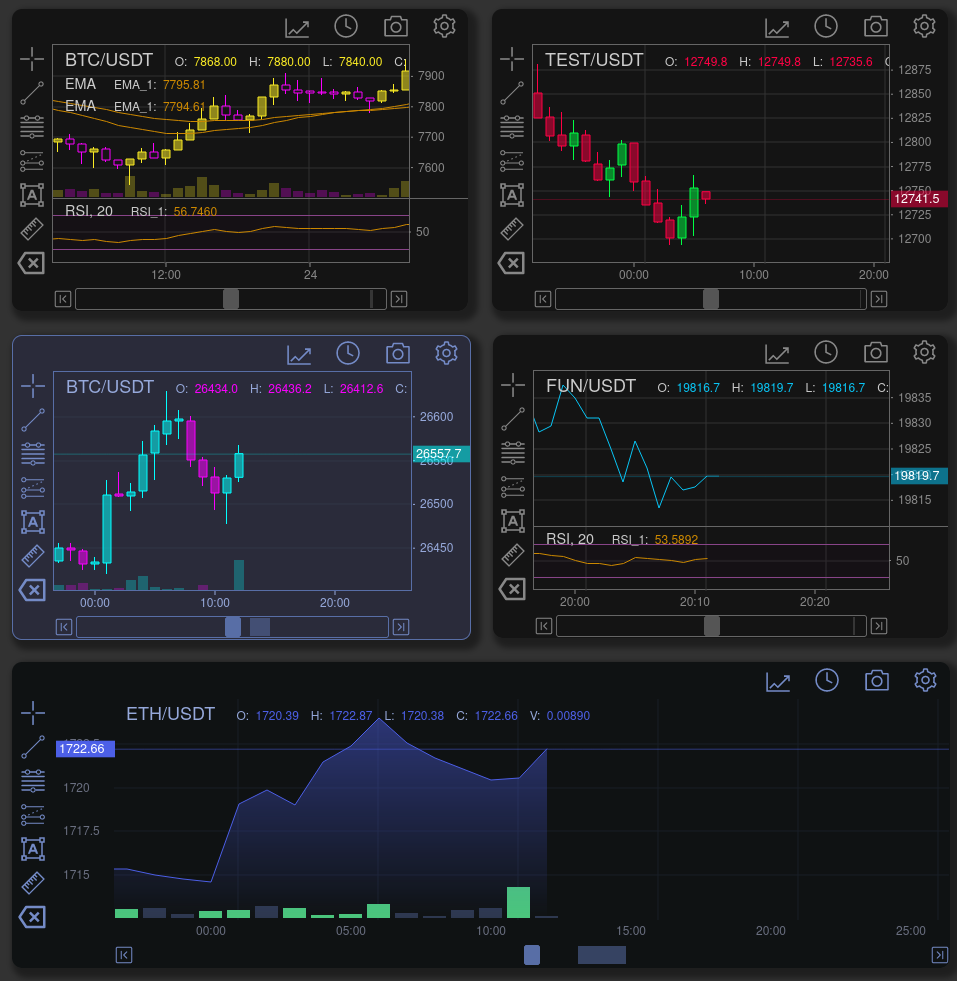
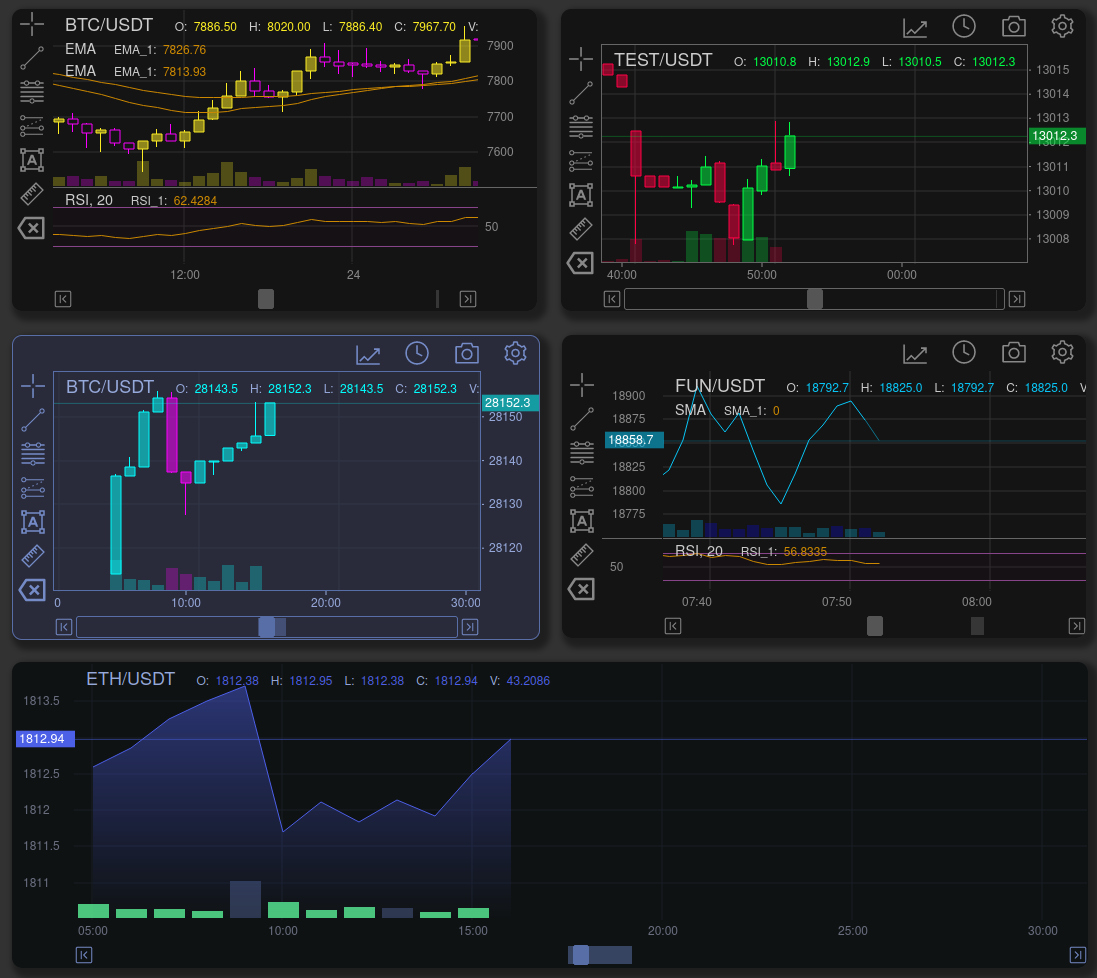
Utils Bar - enable / disable

diff --git a/demo/index.js b/demo/index.js
@@ -78,10 +78,11 @@ let streamInit = false
 const config1 = {
   id: "TradeX_test",
   title: "BTC/USDT",
+  symbol: "btcusdt",
   // width: 1000,
   // height: 800,
-  utils: {none: true},
-  tools: {none: true},
+  utils: {},
+  tools: {},
   timeFrame: "1m",
   rangeStartTS: rangeStartTS,
   rangeLimit: 30,
@@ -98,14 +99,26 @@ const config1 = {
       UpColour: "#FAEB2444",
       DnColour: "#F900FE44",
     },
+    xAxis: {
+      tickMarker: false,
+    },
+    yAxis: {
+      tickMarker: false,
+    },
     chart: {
       Background: "#141414",
-      BorderColour: "#666",
+      BorderColour: "#141414",
       GridColour: "#303030",
       TextColour: "#c0c0c0"
     },
     onChart: {
 
+    },
+    tools: {
+      location: "left"
+    },
+    utils: {
+      location: false
     },
   },
   isCrypto: true,
@@ -121,10 +134,11 @@ const config1 = {
 const config2 = {
   id: "TradeX_test",
   title: "TEST/USDT",
+  symbol: "testusdt",
   // width: 1000,
   // height: 800,
-  utils: {none: true},
-  tools: {none: true},
+  utils: {},
+  tools: {},
   timeFrame: "1m",
   rangeStartTS: state2.ohlcv.slice(-15)[0][0], // rangeStartTS,
   rangeLimit: 30,
@@ -164,10 +178,11 @@ const config2 = {
 const config3 = {
   id: "TradeX_Blue",
   title: "BTC/USDT",
+  symbol: "btcusdt",
   // width: 1000,
   // height: 800,
-  utils: {none: true},
-  tools: {none: true},
+  utils: {},
+  tools: {},
   timeFrame: "1m",
   rangeStartTS: rangeStartTS,
   rangeLimit: 30,
@@ -239,15 +254,19 @@ const config3 = {
   errors: true,
   stream: streamVal,
   maxCandleUpdate: 250,
-  talib: talib
+  talib: talib,
+  state: {
+
+  }
 }
 const config4 = {
   id: "TradeX_test",
   title: "FUN/USDT",
+  symbol: "funusdt",
   // width: 1000,
   // height: 800,
-  utils: {none: true},
-  tools: {none: true},
+  utils: {},
+  tools: {},
   timeFrame: "1s",
   rangeStartTS: state4.ohlcv.slice(-1)[0][0] - (15000),
   rangeLimit: 30,
@@ -266,9 +285,16 @@ const config4 = {
       UpColour: "#08C5F544",
       DnColour: "#0805F544",
     },
+    xAxis: {
+      tickMarker: false,
+    },
+    yAxis: {
+      tickMarker: false,
+      location:"left"
+    },
     chart: {
       Background: "#141414",
-      BorderColour: "#666",
+      BorderColour: "#141414",
       GridColour: "#333",
       TextColour: "#ccc"
     },
@@ -289,10 +315,11 @@ const config4 = {
 const config5 = {
   id: "Midnight",
   title: "ETH/USDT",
+  symbol: "ethusdt",
   // width: 1000,
   // height: 800,
-  utils: {none: true},
-  tools: {none: true},
+  utils: {},
+  tools: {},
   timeFrame: "1m",
   rangeStartTS: rangeStartTS,
   rangeLimit: 30,
@@ -361,6 +388,12 @@ const config5 = {
     icon: {
       colour: "#748bc7",
       hover: "#96a9db"
+    },
+    tools: {
+      location: false
+    },
+    utils: {
+      location: false
     }
   },
   isCrypto: true,

diff --git a/demo/tradex-chart.es.js b/demo/tradex-chart.es.js
@@ -4907,6 +4907,7 @@ class tradeXChart extends element {
   #oHeight
   #widthCache
   #heightCache
+  #theme
   constructor () {
     const template = document.createElement('template');
           template.innerHTML = HTML;
@@ -4980,6 +4981,10 @@ class tradeXChart extends element {
   get body() { return this.#elBody }
   get utils() { return this.#elUtils }
   get widgets() { return this.#elWidgets }
+  elStart(theme) {
+    this.#theme = theme;
+    this.setUtilsLocation();
+  }
   onResized(entries) {
       console.log("onResize");
       console.log(this.offsetWidth);
@@ -5044,6 +5049,26 @@ class tradeXChart extends element {
     this.setWidth(w);
     this.setHeight(h);
     return dims
+  }
+  setUtilsLocation(pos=this.#theme?.utils?.location) {
+    this.#theme.utils = this.#theme.utils || {};
+    switch(pos) {
+      case "none":
+      case false:
+        this.#theme.utils.location = "none";
+        this.#theme.utils.height = 0;
+        this.elUtils.style.display = "none";
+        this.elUtils.style.height =`0px`;
+        this.elBody.style.height = `100%`;
+        break;
+      case "top":
+      default:
+        this.#theme.utils.location = "top";
+        this.#theme.utils.height = UTILSH;
+        this.elUtils.style.display = "block";
+        this.elUtils.style.height =`${UTILSH}px`;
+        this.elBody.style.height = `calc(100% - ${UTILSH}px)`;
+    }
   }
 }
 
@@ -10188,8 +10213,14 @@ class Divider {
       width = this.#core.MainPane.rowsW + this.#core.scaleW,
       height = (isNumber(this.config.dividerHeight)) ?
         this.config.dividerHeight : DIVIDERHEIGHT,
-      left = this.#core.toolsW;
+      left = this.#core.theme.tools.width;
       top -= height / 2;
+    switch(this.#core.theme.tools.location) {
+      case "left": break;
+      case false:
+      case "none":
+      case "right": left *= -1; break;
+    }
     const styleDivider = `position: absolute; top: ${top}px; left: ${left}px; z-index:100; width: ${width}px; height: ${height}px; background: #FFFFFF00;`;
     const node = `
       <div id="${this.#id}" class="divider" style="${styleDivider}"></div>
@@ -10673,6 +10704,7 @@ class TradeXchart extends tradeXChart {
     this.log("...processing state");
     this.#scrollPos = this.bufferPx * -1;
     this.eventsListen();
+    this.elStart(this.theme);
     this.elBody.start(this.theme);
     this.UtilsBar.start();
     this.ToolsBar.start();

diff --git a/src/components/views/tradeXchart.js b/src/components/views/tradeXchart.js
@@ -57,6 +57,7 @@ export default class tradeXChart extends element {
   #oHeight
   #widthCache
   #heightCache
+  #theme
 
   constructor () {
     const template = document.createElement('template')
@@ -156,6 +157,10 @@ export default class tradeXChart extends element {
   get utils() { return this.#elUtils }
   get widgets() { return this.#elWidgets }
 
+  elStart(theme) {
+    this.#theme = theme
+    this.setUtilsLocation()
+  }
 
   onResized(entries) {
     // window.requestAnimationFrame(() => {
@@ -248,5 +253,26 @@ export default class tradeXChart extends element {
     this.setHeight(h)
 
     return dims
+  }
+
+  setUtilsLocation(pos=this.#theme?.utils?.location) {
+    this.#theme.utils = this.#theme.utils || {}
+    switch(pos) {
+      case "none":
+      case false:
+        this.#theme.utils.location = "none"
+        this.#theme.utils.height = 0
+        this.elUtils.style.display = "none"
+        this.elUtils.style.height =`0px`;
+        this.elBody.style.height = `100%`
+        break;
+      case "top":
+      default:
+        this.#theme.utils.location = "top"
+        this.#theme.utils.height = UTILSH
+        this.elUtils.style.display = "block"
+        this.elUtils.style.height =`${UTILSH}px`;
+        this.elBody.style.height = `calc(100% - ${UTILSH}px)`
+    }
   }
 }

diff --git a/index.js b/index.js
@@ -125,6 +125,9 @@ const config1 = {
 
     },
     tools: {
+      location: "left"
+    },
+    utils: {
       location: false
     },
   },
@@ -292,9 +295,16 @@ const config4 = {
       UpColour: "#08C5F544",
       DnColour: "#0805F544",
     },
+    xAxis: {
+      tickMarker: false,
+    },
+    yAxis: {
+      tickMarker: false,
+      location:"left"
+    },
     chart: {
       Background: "#141414",
-      BorderColour: "#666",
+      BorderColour: "#141414",
       GridColour: "#333",
       TextColour: "#ccc"
     },
@@ -390,7 +400,7 @@ const config5 = {
       hover: "#96a9db"
     },
     tools: {
-      location: "left"
+      location: false
     },
     utils: {
       location: false

diff --git a/src/components/widgets/divider.js b/src/components/widgets/divider.js
@@ -184,8 +184,16 @@ export default class Divider {
       width = this.#core.MainPane.rowsW + this.#core.scaleW,
       height = (isNumber(this.config.dividerHeight)) ? 
         this.config.dividerHeight : DIVIDERHEIGHT,
-      left = this.#core.toolsW;
+      left = this.#core.theme.tools.width // this.#core.toolsW;
       top -= height / 2
+
+    switch(this.#core.theme.tools.location) {
+      case "left": break;
+      case false:
+      case "none":
+      case "right": left *= -1; break;
+      default: break
+    }
 
     const styleDivider = `position: absolute; top: ${top}px; left: ${left}px; z-index:100; width: ${width}px; height: ${height}px; background: #FFFFFF00;`
 

diff --git a/src/core.js b/src/core.js
@@ -415,6 +415,7 @@ export default class TradeXchart extends Tradex_chart {
 
     this.eventsListen()
 
+    this.elStart(this.theme)
     this.elBody.start(this.theme)
     this.UtilsBar.start()
     this.ToolsBar.start()

diff --git a/src/components/views/body.js b/src/components/views/body.js
@@ -188,7 +188,6 @@ export default class tradeXBody extends element {
     }
     this.setYAxisLocation()
   }
-
 }
 
 window.customElements.define('tradex-body', tradeXBody)
